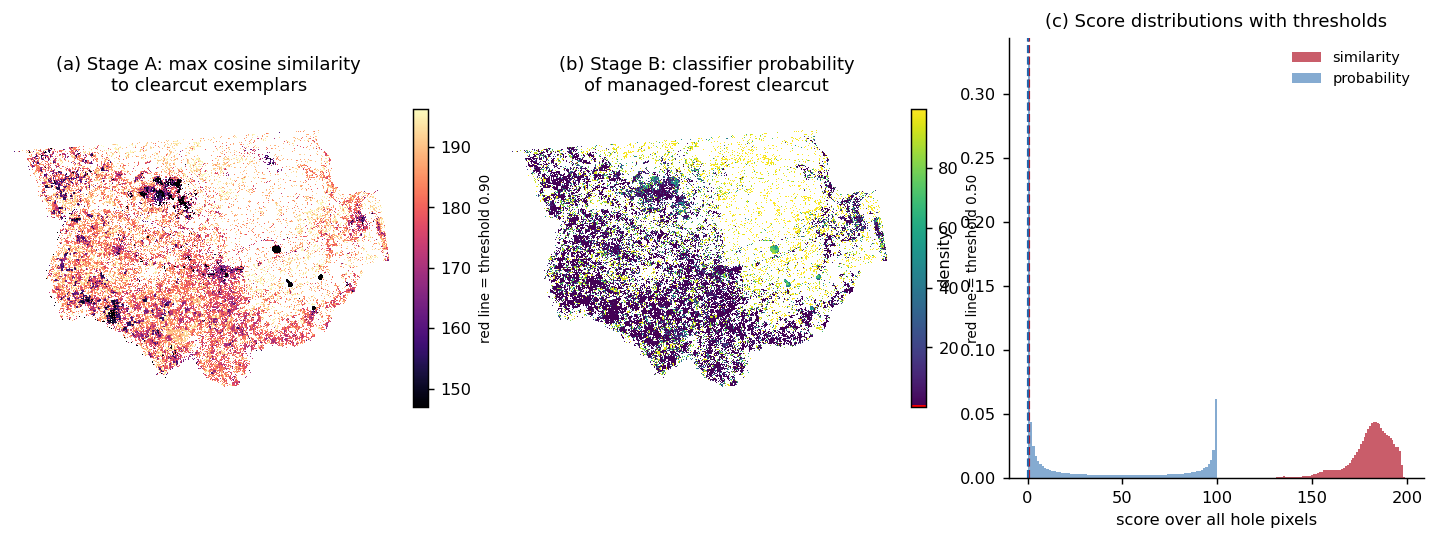
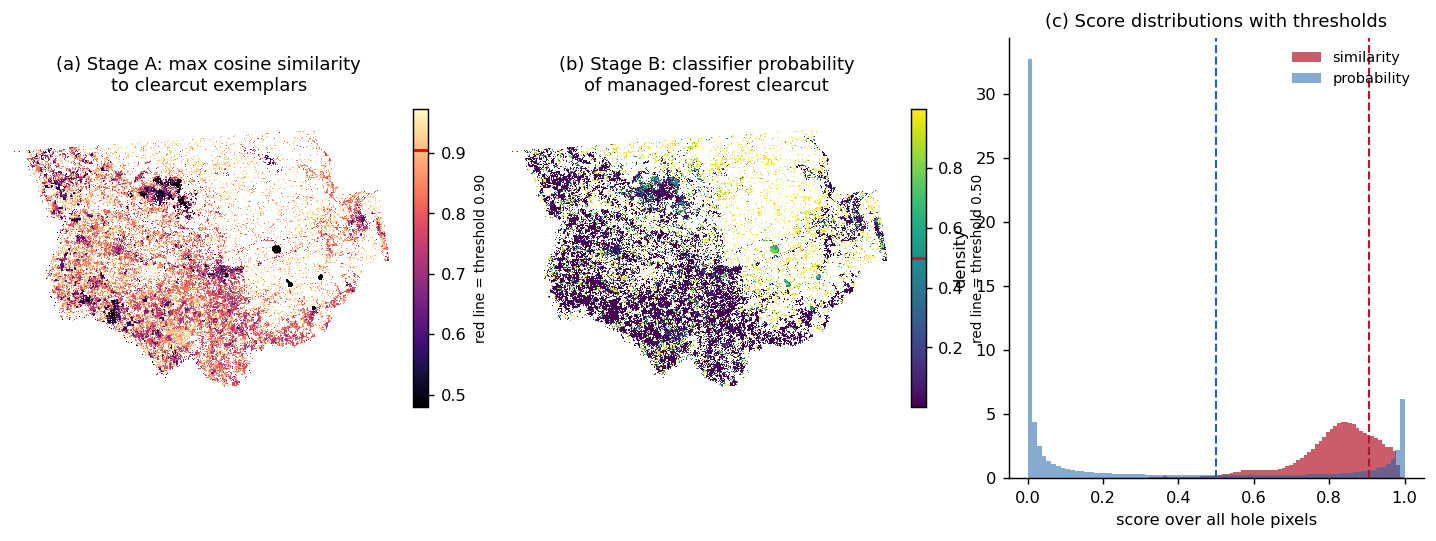
fix(s1): correct report score decoding

diff --git a/tests/test_make_report_figures.py b/tests/test_make_report_figures.py
@@ -1,0 +1,59 @@
+"""Regression tests for report figures built from exported score rasters."""
+
+import json
+
+import matplotlib.pyplot as plt
+import numpy as np
+import rasterio
+from rasterio.transform import from_origin
+
+from pipeline.s1_initial_state import make_report_figures as report
+
+
+def _write_raster(path, data):
+    with rasterio.open(
+        path,
+        "w",
+        driver="GTiff",
+        height=data.shape[-2],
+        width=data.shape[-1],
+        count=1 if data.ndim == 2 else data.shape[0],
+        dtype=data.dtype,
+        transform=from_origin(0, data.shape[-2], 1, 1),
+    ) as dst:
+        dst.write(data, 1) if data.ndim == 2 else dst.write(data)
+
+
+def test_fig10_decodes_exported_uint16_scores_before_plotting(tmp_path, monkeypatch):
+    """Catch a stale score divisor making Figure 10 surfaces 100x too large."""
+    scored = np.array(
+        [
+            [[1_000, 5_000], [7_500, 10_000]],
+            [[12_000, 15_000], [19_000, 20_000]],
+        ],
+        dtype=np.uint16,
+    )
+    _write_raster(tmp_path / "hole_prob_similarity.tif", scored)
+    _write_raster(tmp_path / "treemap_hole_strata.tif", np.ones((2, 2), dtype=np.uint8))
+    (tmp_path / "hole_model.json").write_text(
+        json.dumps({"similarity_threshold": 0.9, "decision_threshold": 0.5})
+    )
+
+    captured = {}
+    monkeypatch.setattr(report, "DATA", tmp_path)
+    monkeypatch.setattr(report, "save", lambda fig, _name: captured.setdefault("fig", fig))
+
+    report.fig10_gee_surfaces()
+
+    fig = captured["fig"]
+    try:
+        np.testing.assert_allclose(
+            fig.axes[0].images[0].get_array(),
+            [[0.2, 0.5], [0.9, 1.0]],
+        )
+        np.testing.assert_allclose(
+            fig.axes[1].images[0].get_array(),
+            [[0.1, 0.5], [0.75, 1.0]],
+        )
+    finally:
+        plt.close(fig)

diff --git a/pipeline/s1_initial_state/embed_holes.py b/pipeline/s1_initial_state/embed_holes.py
@@ -50,8 +50,8 @@ CHUNK = 500  # points per getInfo call; keeps requests under EE payload limits
 AOI_BOUNDS_5070 = (1210125.0, 831795.0, 1342665.0, 937605.0)
 OUTPUT_SCALE_M = 30
 
-# Fixed-point scale for the exported score bands. This must be fine enough that
-# quantisation cannot flip a decision: ``finalize_add_back`` compares decoded
+# Fixed-point scale for the exported score bands. This must be fine enough to
+# bound quantisation flips to a negligible band: downstream code compares decoded
 # values against the model's full-precision thresholds, so a coarse scale moves
 # pixels across the boundary in both directions. At 1/100 a true similarity of
 # 0.9046 encoded to 0.90 was wrongly rejected against a 0.90457 threshold, and a
@@ -59,6 +59,13 @@ OUTPUT_SCALE_M = 30
 # 1/10000 the worst-case shift is 5e-5. Bands stay inside uint16: probability
 # reaches 10000 and (cosine + 1) reaches 20000, against a 65535 ceiling.
 SCORE_SCALE = 10_000
+
+
+def decode_score_bands(scored: np.ndarray) -> tuple[np.ndarray, np.ndarray]:
+    """Decode exported probability and cosine-similarity score bands."""
+    probability = scored[0].astype(float) / SCORE_SCALE
+    similarity = scored[1].astype(float) / SCORE_SCALE - 1.0
+    return probability, similarity
 
 
 def check_feature_years(years) -> None:

diff --git a/pipeline/s1_initial_state/finalize_add_back.py b/pipeline/s1_initial_state/finalize_add_back.py
@@ -34,7 +34,7 @@ import pandas as pd
 import rasterio
 from scipy import ndimage
 
-from pipeline.s1_initial_state.embed_holes import SCORE_SCALE
+from pipeline.s1_initial_state.embed_holes import decode_score_bands
 
 REPO = Path(__file__).resolve().parents[2]
 DATA_DIR = REPO / "data/interim/treemap_holes"
@@ -104,8 +104,7 @@ def main() -> None:
 
     # Decoded with the same fixed-point scale used on export; see
     # embed_holes.SCORE_SCALE for why 1/100 was not fine enough.
-    prob = scored[0].astype(float) / SCORE_SCALE
-    similarity = scored[1].astype(float) / SCORE_SCALE - 1.0
+    prob, similarity = decode_score_bands(scored)
 
     raw = decide(strata, prob, similarity, model["similarity_threshold"], model["decision_threshold"])
     raw &= strata > 0

diff --git a/pipeline/s1_initial_state/make_report_figures.py b/pipeline/s1_initial_state/make_report_figures.py
@@ -34,6 +34,7 @@ from pipeline.s1_initial_state.classify_holes import (
     stage_a_similarity,
     training_matrix,
 )
+from pipeline.s1_initial_state.embed_holes import decode_score_bands
 from pipeline.s1_initial_state.stratify_treemap_holes import read_evt_window
 
 REPO = Path(__file__).resolve().parents[2]
@@ -522,8 +523,7 @@ def fig10_gee_surfaces():
         scored = src.read()
     with rasterio.open(DATA / "treemap_hole_strata.tif") as src:
         strata = src.read(1)
-    prob = scored[0].astype(float) / 100.0
-    sim = scored[1].astype(float) / 100.0 - 1.0
+    prob, sim = decode_score_bands(scored)
     holes = strata > 0
 
     model = json.loads((DATA / "hole_model.json").read_text())

diff --git a/notes/treemap-holes-rectification.md b/notes/treemap-holes-rectification.md
@@ -292,9 +292,13 @@ bands, L2 norm 1.0001 ± 0.002, no duplicate coordinates.
 at 90 % anchor recall; clearcut anchors median similarity 0.9541, stable
 non-forest 0.8241 and only **11.6 %** of it passes.
 
-**Stage B**: block-CV **AUC 0.9818, accuracy 0.9433**, label-shuffle AUC 0.4829.
-The shuffle baseline sitting on 0.5 is what makes the headline number
-believable — the model is learning land cover, not geography.
+**Stage B**: the operational block-CV result, conditional on surviving Stage A,
+is **AUC 0.8834, accuracy 0.9265** (n = 3,048; 2,700 positive / 348 negative).
+Over all anchors it is AUC 0.9818 / accuracy 0.9433, with label-shuffle AUC
+0.4829, but that larger AUC credits Stage B for easy negatives the mask already
+removed. A conditional refit was tested and not adopted: it moved S3 0.266 →
+0.251 and S4 0.765 → 0.754 while reducing the negative training population from
+3,000 to 348. The evaluation changed; the fitted model did not.
 
 **Final add-back: 75,831 ac of 730,003 ac of holes (10.4 %)**, in 2,974 patches,
 median 13.6 ac, mean 25.5 ac, max 377 ac — realistic harvest-unit sizes. The
@@ -391,6 +395,12 @@ reference bookends.
   AlphaEarth's native 10 m; the exported raster is 30 m to match TreeMap's grid.
   Agreement between the two is r = 0.988 (probability) / 0.991 (similarity), with
   97.7 % decision agreement at 0.5 — the residual is aggregation, not a bug.
+- **The uint16 score raster has one codec.** `embed_holes.decode_score_bands`
+  owns the 1/10000 fixed-point decoding used by both `finalize_add_back` and
+  Figure 10. A review found that Figure 10 had retained the old 1/100 divisor
+  after the export scale changed, producing 0–100 / 120–199 plots even though
+  the final acreage mask decoded correctly. `test_make_report_figures.py` pins
+  the report path to the shared codec.
 - **0.98 / 0.23 are proxies, not measured.** LCMS has its own unquantified error
   rate, and it shares optical sensors with AlphaEarth — independent in producer
   and algorithm, not in underlying imagery. Hand-labelled NAIP is still needed.
